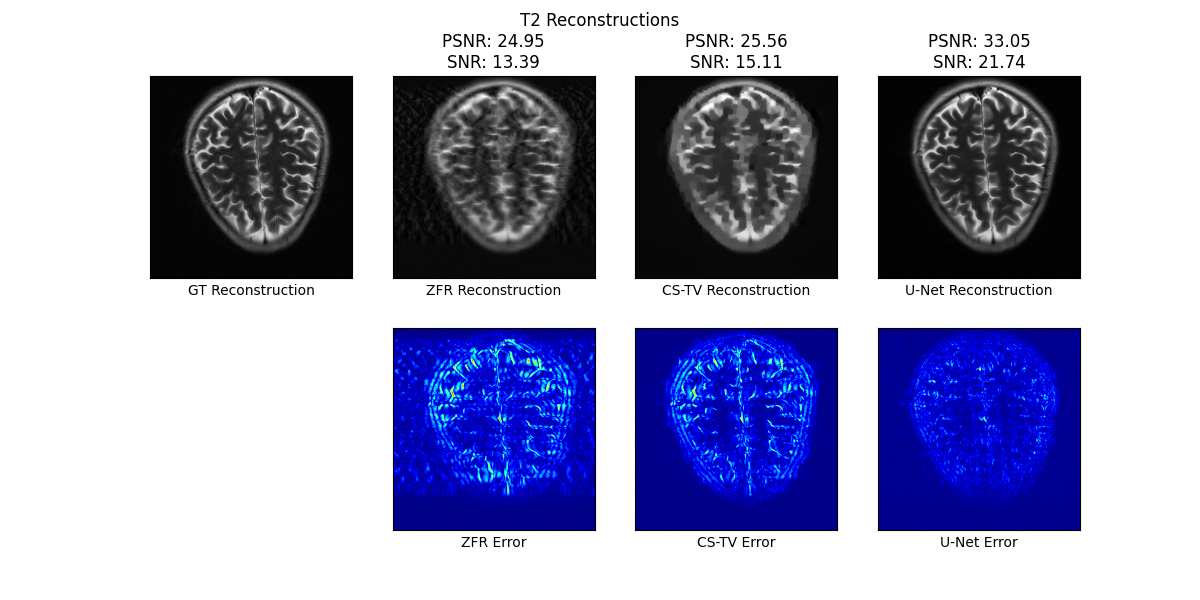
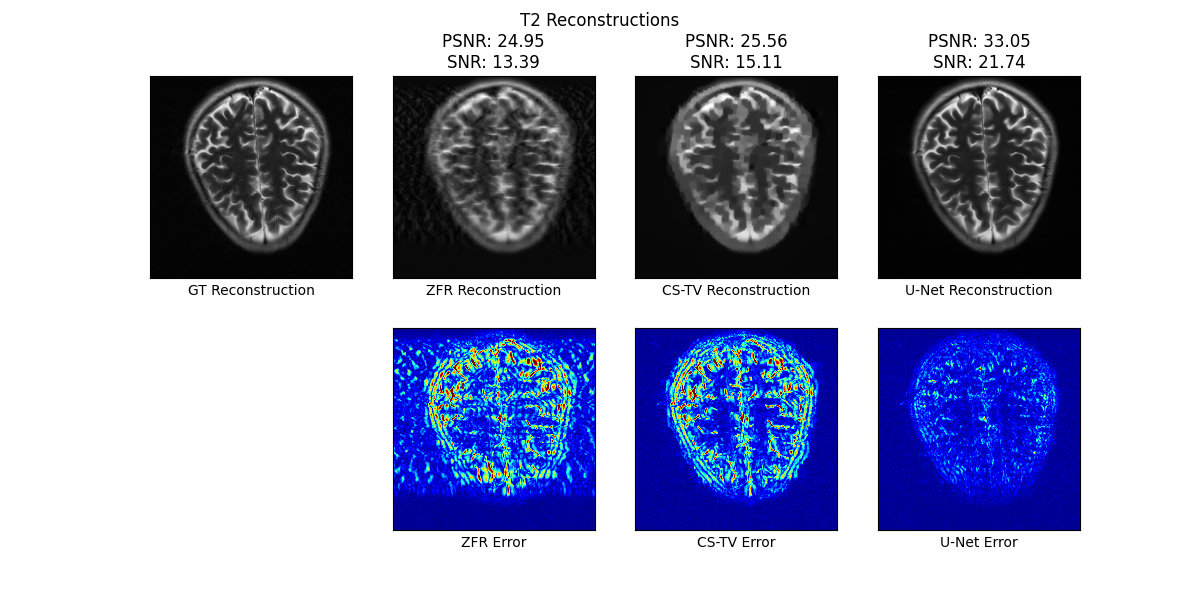
Fixed plots and plot generationg - no colobar

Changed region(s): [[0.3083, 0.54, 0.4933, 0.84], [0.5242, 0.54, 0.7092, 0.87], [0.74, 0.54, 0.8942, 0.84]]

diff --git a/generate_plots.py b/generate_plots.py
@@ -36,11 +36,10 @@ def generate_error_map(fig, max, target, recon, method, image_ind, k=5):
     # Assume rows and cols are available globally
     # rows and cols are both previously defined ints
     ax = fig.add_subplot(rows, cols, image_ind)
-    im = ax.imshow(k * np.abs(target - recon), cmap='jet', extent=[0, max, 0, max])
+    ax.imshow(k * np.abs(target - recon), cmap='jet', vmin=0, vmax=max, extent=[0, max, 0, max])
     ax.set_xticks([])
     ax.set_yticks([])
     plt.xlabel(f'{method} Error')
-    return im, ax
 
 # h5py.File(f'/home/bendel.8/Git_Repos/ComparisonStudy/pnp/out/{file_name}') as pnp_im, \
 data_dir = Path('/storage/fastMRI_brain/data/Matt_preprocessed_data/T2/singlecoil_test')
@@ -81,12 +80,9 @@ for fname in tqdm(list(data_dir.glob("*.h5"))):
         generate_image(fig, gt_max, target, zfr, 'ZFR', 2)
         generate_image(fig, gt_max, target, recons, 'CS-TV', 3)
         generate_image(fig, gt_max, target, unet_im, 'U-Net', 4)
-        axes = np.array()
-        im, axes[0] = generate_error_map(fig, gt_max, target, zfr, 'ZFR', 6)
-        im, axes[1] = generate_error_map(fig, gt_max, target, recons, 'CS-TV', 7)
-        im, axes[2] = generate_error_map(fig, gt_max, target, unet_im, 'U-Net', 8)
-
-        fig.colorbar(im, ax=axes.ravel().tolist())
+        generate_error_map(fig, gt_max, target, zfr, 'ZFR', 6)
+        generate_error_map(fig, gt_max, target, recons, 'CS-TV', 7)
+        generate_error_map(fig, gt_max, target, unet_im, 'U-Net', 8)
 
         plt.savefig(f'/home/bendel.8/Git_Repos/ComparisonStudy/plots/images/recons_{count}.png')
 
